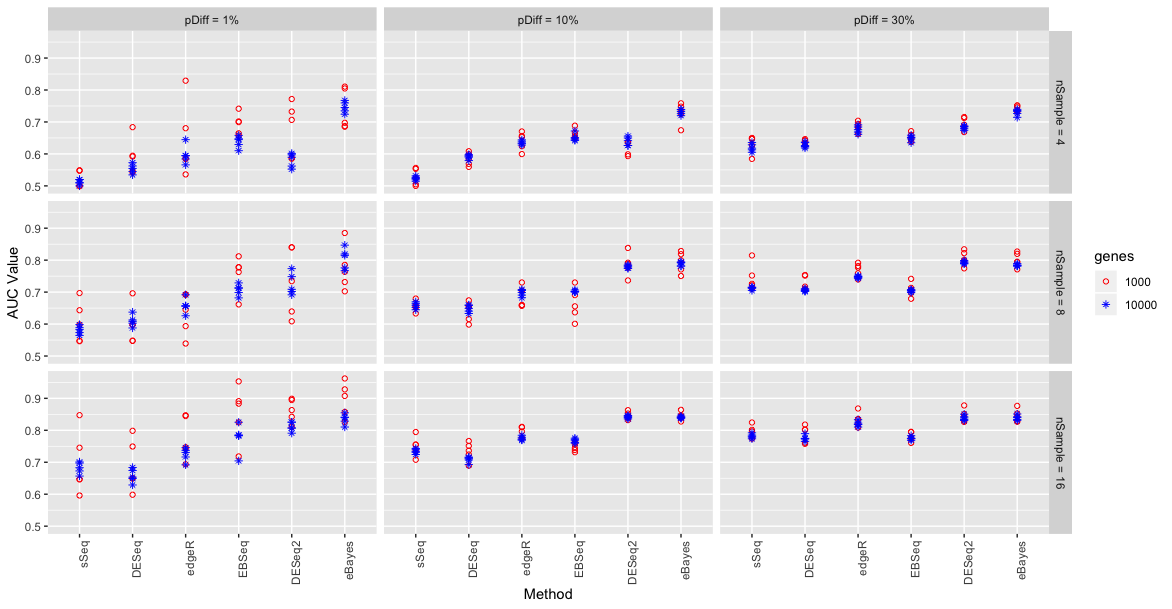
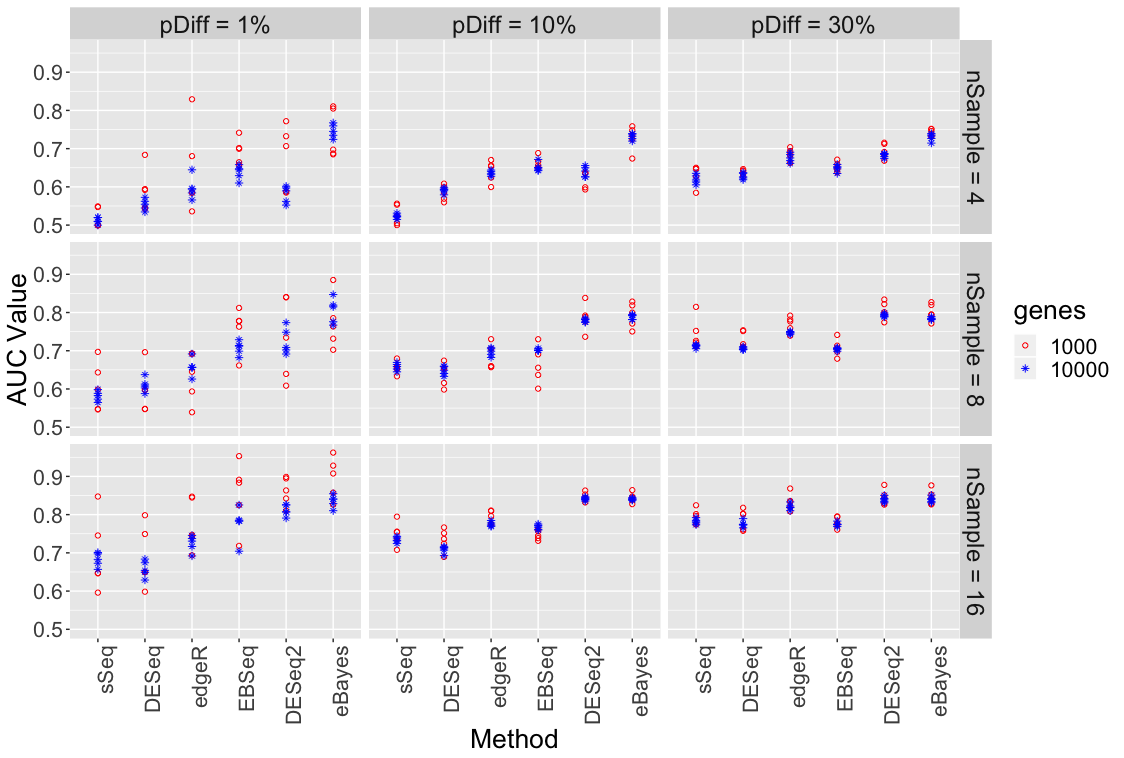
result and discussion finished

diff --git a/result.tex b/result.tex
@@ -12,30 +12,28 @@ To evaluate the true positive rate (TPR) and false positive rate (FPR) together,
 \label{sc1_roc_01}
 \end{figure}
 
-The most optimal ROC curve jointly displays high levels of TPR and FPR. {\tt DESeq2} and {\tt eBayes} performed equallly better than other methods when sample size is large, i.e. $nSample = 8, 16$. When we have few samples, i.e., $nSample=4$, {\tt eBayes} outperforms all other methods. 
+The most optimal ROC curve jointly displays high levels of TPR and FPR. {\tt DESeq2} and {\tt eBayes} performed equally better than other methods when sample size is large, i.e. $nSample = 8, 16$. When we have few samples, i.e., $nSample=4$, {\tt eBayes} outperforms all other methods. {\tt eBayes} provides the best true positive rate for a given false positive rate in most cases. 
 
-We also evaluated the different methods with another performance metric: area under the curve (AUC) of ROC curves. Figure \ref{auc} provides the area under the ROC curve (AUC) across the 5 simulations for each of the scenario defined in \ref{tab:Scenario}. We facetted the plots by number of samples (nSample) and differential gene expression proportion (pDiff), grouped by different level of total number of genes. 
+We also evaluated the different methods with another performance metric: area under the curve (AUC) of ROC curves. Figure \ref{auc} provides the area under the ROC curve (AUC) across the 5 simulations for each of the scenario defined in \ref{tab:Scenario}. We facetted the plots by number of samples (nSample) and differential gene expression proportion (pDiff), grouped by different level of total number of genes. Similar to the single ROC curve, the eBayes method appears to outperform the other methods in terms of AUC, when number of samples and true DE proportion are small. With four or eight replcates per variety, there does not appear to be much of a difference between {\tt eBayes} and {\tt DESeq2}, but as the number of replicates decreases, the {\tt eBayes} approach appears to improve relative to {\tt DESeq2}.
 
 \begin{figure}[h!tb] 
-\includegraphics[height=10cm,width=18cm]{auc_plot}
-\caption{AUC Plot of Simulated Datasets across Six Methods, Facetted by proportion of DE (pDiff) and number of samples (nSample), Colored by total number of Genes (nGenes)}
+\includegraphics[height=20cm,width=18cm]{auc_plot}
+\caption{AUC Plot of Simulated Datasets across Six Methods, Facetted by proportion of DE (pDiff) and number of samples (nSample), Grouped by total number of Genes (nGenes)}
 \label{auc}
 \end{figure}
 
-We noticed that the difference among methods shrank as proportion of DE genes $pDiff$ increases. The number of genes doesn't affect the methods performance in terms of AUC values. All methods perform better when the number of samples increases. 
+We noticed that the difference among methods shrank as proportion of DE genes (pDiff) increases. The number of genes (nGenes) doesn't affect the methods performance in terms of AUC values. All methods perform better when the number of samples increases.
 
 
 \section{Discussion}
 
-We evaluated
+{\tt eBayes} method is based on obtaining estimate for hyperparameters followed by MCMC to estimate gene-specific parameters. The empirical Bayes posteriors can be used to estimate posterior probabilities of DE . Through a simulation study, we demonstrated that this method outperformed alternative methods. 
 
-Try to explain the results
+Number of samples (nSamples) shows an impact on methods' performance in terms of AUC values. More samples (nSamples) would improve all methods' performance given the same proportion of DE genes (pDiff). DE analysis methods work better on count data with more replicates per condition and higher true DE genes proportion. This is not surprising considering that the focus of most methods is to model the variability in gene expression measurements and therefore increasing the number of replicates strengthen the estimate. 
 
-Limitations of this study
+The true DE genes proportion (pDiff) affects the outperformance of {\tt eBayes}. When pDiff is smaller, {\tt eBayes} performs much better than other methods in terms of AUC values, which means eBayes method has more advantages handling smaller true DE proportion scenario.
 
-Future direction
-
-
+{\tt eBayes} method might be improved by refining the hierarchical model for the gene-specific parameter distribution and the hyperparameters estimation. There are other methods to explore, such as fully Bayesian methods. 
 
 
 

diff --git a/thesis.tex b/thesis.tex
@@ -1,11 +1,7 @@
 % Template file for a standard thesis
 \documentclass[11pt]{isuthesis}
 \usepackage[pdftex]{graphicx}
-\usepackage{listings}
-\lstset{
-    language=R,
-    basicstyle=\ttfamily
-}
+
 %\usepackage[utf8]{inputenc}
 %\usepackage{float}
 %\usepackage{graphicx}
